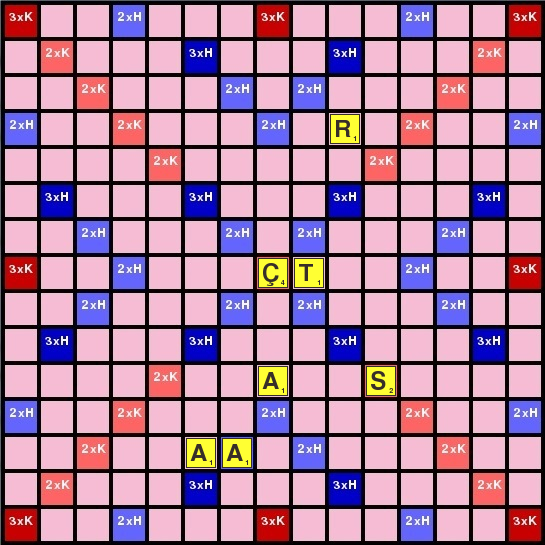
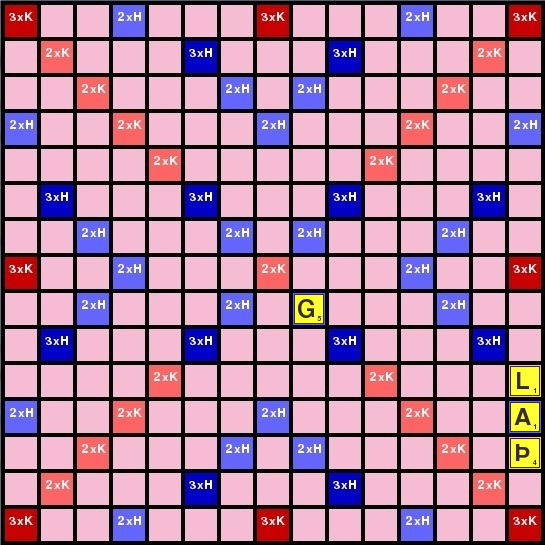
saveimage and tile placement together

diff --git a/scrabble.py b/scrabble.py
@@ -15,8 +15,10 @@ def main():
     MouseReleased=False # Released THIS FRAME
     Target=None # target of Drag/Drop    
 # ################################################################
-    global tilem
-    tilem = None
+# ##############save initial image
+    global asurf
+    asurf = pygame.image.load('Board.jpg') 
+    playedTiles = []
 # ##################### All positions that any tile can be at and their status of occupy, both board and tray 
     
     squares = {}
@@ -36,8 +38,6 @@ def main():
 
     Target=None # target of Drag/Drop 
     while True: #show SCREEN until not close
-	
-	#SCREEN.blit(asurf, imagerect)
 	# #####################################
 	SCREEN.fill((0,0,0)) # clear screen
 	SCREEN.blit(asurf.convert_alpha(),[0,0])
@@ -55,6 +55,16 @@ def main():
 	    if event.type == MOUSEBUTTONDOWN:
 		if menu.playButton.pressed(pygame.mouse.get_pos()):
 		    print "Play pressed!"
+		    # #################save image when it placed#########
+		    players[active].drawTray(SCREEN)
+		    for Target in playedTiles:
+			players[active].tray.remove(Target)		    
+		    playedTiles = []
+		    rect = pygame.Rect(0, 0, 545, 545)
+		    sub = SCREEN.subsurface(rect)
+		    pygame.image.save(sub, "Board.png")
+		    asurf = pygame.image.load('Board.png')
+		    #  ##############################################			    
 		if menu.changeButton.pressed(pygame.mouse.get_pos()):
 		    print "Shuffle pressed!"
 		if menu.backButton.pressed(pygame.mouse.get_pos()):
@@ -86,20 +96,9 @@ def main():
 			players[active].tray[-1] = Target# now last element is Target
 			# ####################################################
 			break
-	        '''
-		for item in playedTiles: # search all items
-		    if (pos[0] >= (item.coordinate[0]) and # ######## Changed
-		        pos[0] <= (item.coordinate[0] + item.SQUARE_SIZE) and 
-		        pos[1] >= (item.coordinate[1]) and # ######## Changed
-		        pos[1] <= (item.coordinate[1] + item.SQUARE_SIZE) ): # inside the bounding box
-			Target=item # "pick up" item
-			break		
-		'''
-		
-		#if Target is None: # didn't find any?
-		    #Target=Disk((0,0,255),coordinate,32) # create a new one
-		    #RenderList.append(Target) # add to list of things to draw
-		
+
+
+
 	    if MouseDown and Target is not None: # if we are dragging something
 		Target.coordinate = (pos[0] - tile.Tile.SQUARE_SIZE/2, pos[1] - tile.Tile.SQUARE_SIZE/2) # move the target with us ############Holds the tile from the middle
 		
@@ -120,6 +119,10 @@ def main():
 			i = i + 36
 		    
 		    Target.coordinate = (Target.coordinate[0], i - 36)	
+		    # ###############will remove from tray when played#############3
+		    if(Target not in playedTiles):
+			playedTiles.append(Target)
+		    # ######################################################		    
 		    
 		# if the tile put on tray
 		elif (Target.coordinate[0] > human.Human.TRAY_LEFT and Target.coordinate[1] > human.Human.TRAY_TOP and Target.coordinate[0] < human.Human.TRAY_LEFT + (tile.Tile.SQUARE_SIZE + tile.Tile.SQUARE_BORDER)*8 and Target.coordinate[1] < human.Human.TRAY_TOP + tile.Tile.SQUARE_SIZE + tile.Tile.SQUARE_BORDER*2):
@@ -129,8 +132,11 @@ def main():
 			i = i + 36		    
 			
 		    Target.coordinate = (i - 36, human.Human.TRAY_FIRSTTOP)
-		    
-		    
+		    # ###############will remove from tray when played#############3
+		    if(Target not in playedTiles):
+			playedTiles.append(Target)
+		    # ######################################################		    
+
 		    
 		else:
 		    Target.coordinate = Target.oldPos # if tile put out of board bring it back
@@ -183,7 +189,11 @@ def main():
 			    Target.coordinate = (Target.coordinate[0], Target.coordinate[1] + 36)
 			elif slidingTo == 3:
 			    Target.coordinate = (Target.coordinate[0], Target.coordinate[1] - 36)
-			    
+		    
+		    # ###############will remove from tray when played######
+		    if(Target not in playedTiles):
+			playedTiles.append(Target)
+		    # ######################################################		    
 			
 	    # slide the tile if it is dropped on another tile
 			    
@@ -195,12 +205,8 @@ def main():
 	    MouseReleased = False # Ditto
 
 # ###############
-	#gameboard.draw()
 	players[active].drawTray(SCREEN)#draw tiles of the player ## SILINECEK NOT: BU KOD SATIRININ YERI ONEMLI 
-	'''
-	for item in playedTiles:
-	    item.draw(False)
-	'''
+	
 # #############
         pygame.display.update()    
 
@@ -208,21 +214,13 @@ def main():
 # ####################################DRAW#############################################
 def draw():
     tilebag = bag.Bag() #create a bag of tiles
-# ############
     global gameboard
     gameboard = board.Board()#crate game board
-# ###########
 
     global gamemenu
     gamemenu = menu.GameMenu()#create game menu
-    global asurf
-    global imagerect
-    asurf = pygame.image.load('Board.jpg')
-    #imagerect = asurf.get_rect()
     SCREEN.fill((0,0,0))
-    #SCREEN.blit(asurf.convert_alpha(),[0,0])
-    #SCREEN.blit(asurf, imagerect)
-   	
+    
     # ######## tile trial #######
     global players
     players = []
